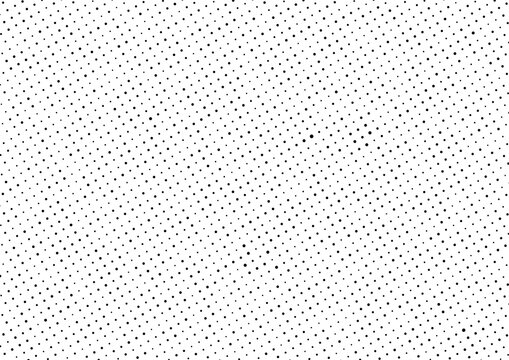
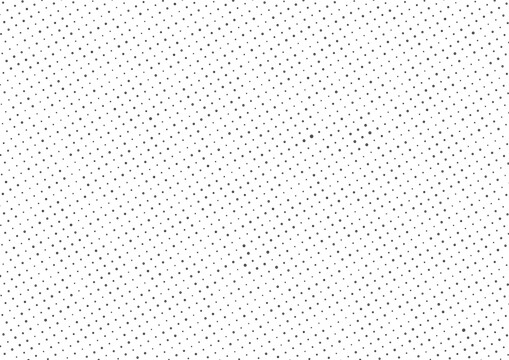
minor timeline font adjustment - new bg

diff --git a/timescale.js b/timescale.js
@@ -1,7 +1,11 @@
 const timescaleYears = document.getElementsByClassName('timescale-year');
+const timescaleAxis = document.getElementById('timescale-axis');
 const issuesContainer = document.getElementsByClassName('issues-container');
 const box = document.getElementsByClassName('box');
+
 let yearWidth = timescaleYears[0].getBoundingClientRect().width;
+let timescaleAxisWidth = timescaleAxis.getBoundingClientRect().width;
+const STARTING_YEAR = 1962
 
 const updateTimeScaler = () => {
     let gap = parseFloat(getComputedStyle(issuesContainer[0]).gap);
@@ -12,6 +16,18 @@ const updateTimeScaler = () => {
     });
 }
 
+const drawTimescaleYears = () => {
+    for (let i = 0; i < 2024-STARTING_YEAR; i++) {
+        var timescaleYearChild = document.createElement('div');
+        timescaleYearChild.className = 'timescale-year';
+        let numericYear = STARTING_YEAR+1;
+
+        timescaleYearChild.textContent = (numericYear+i).toString();
+        timescaleAxis.appendChild(timescaleYearChild);
+    }
+}
+
+drawTimescaleYears();
 updateTimeScaler(); // Call it once to init
 
 document.addEventListener("wheel", updateTimeScaler);

diff --git a/styles.css b/styles.css
@@ -14,7 +14,7 @@ body {
     background: url('bg.jpg') repeat;
     background-size: auto; 
     background-position: 0 0;
-    cursor: grab;
+    cursor: grab;   
 }
 
 #timescale-axis {
@@ -27,11 +27,14 @@ body {
     /* border: 20px solid purple; */
 }
 
-#timescale-axis .year {
+.timescale-year {
     position: relative;
-    top: -10px;
+    top: 0px;
     padding-right: 0;
     padding-left: 0;
+    font-family: 'Courier New', Courier, monospace;
+    font-weight: bold;
+    text-shadow: 1px -1px 0 #ffffff, -1px 1px 0 #ffffff, 1px 1px 0 #ffffff;
 }
 
 #content-container {

diff --git a/index.php b/index.php
@@ -23,10 +23,8 @@ if ($json_data == null) {
 <body>
  <div id="bg-container">  
     <div id="content-container">
-      <div id="timescale-axis">
-        <div class="timescale-year">1960</div>
-        <div class="timescale-year">1960</div>
-        <div class="timescale-year">1960</div>
+      <div id="timescale-axis">        
+        <div class="timescale-year">1962</div>        
       </div>        
       <div class="series-container">
         <!-- <div class="label"></div> -->
